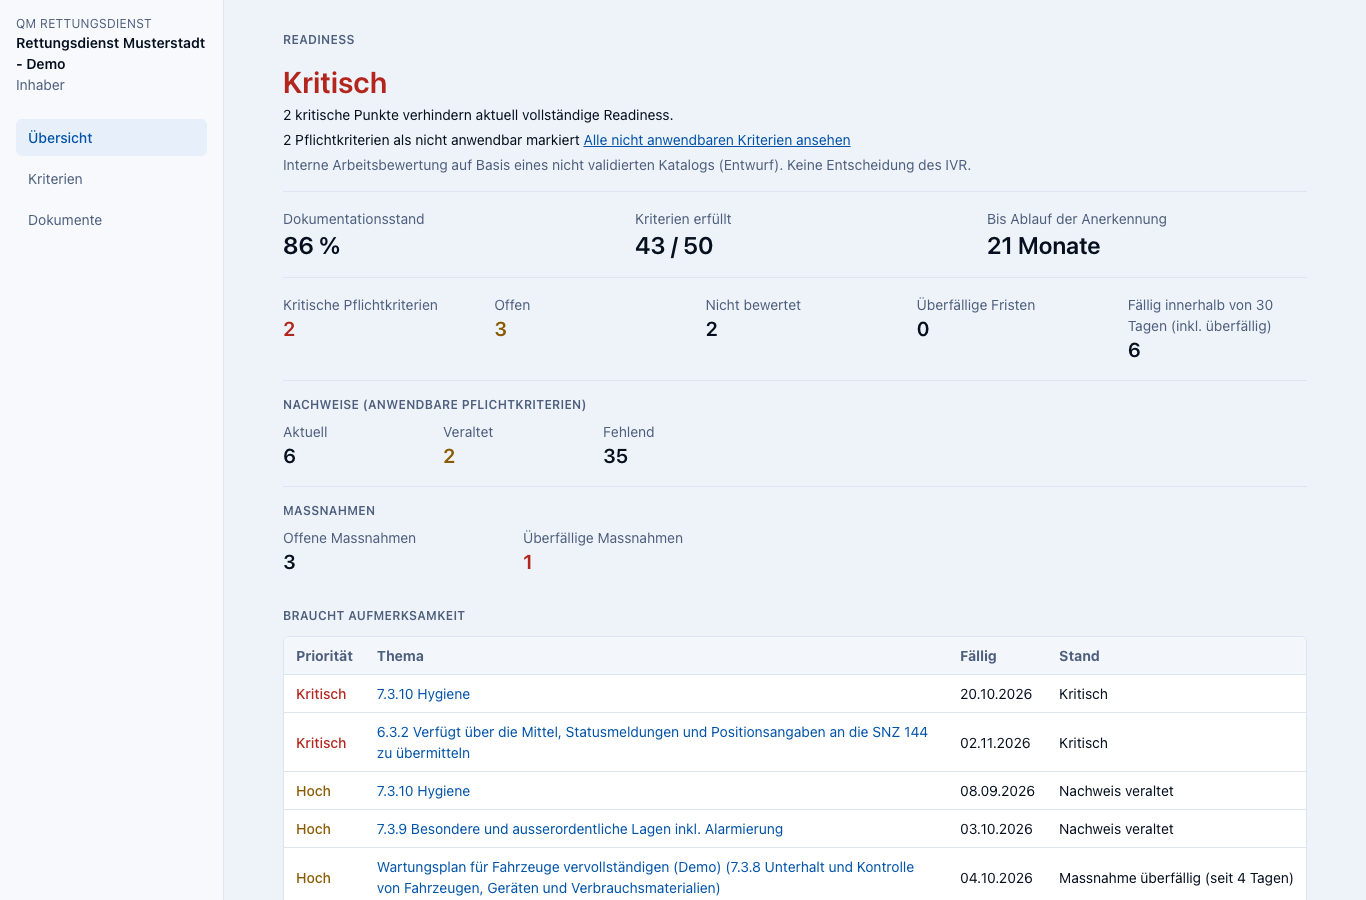
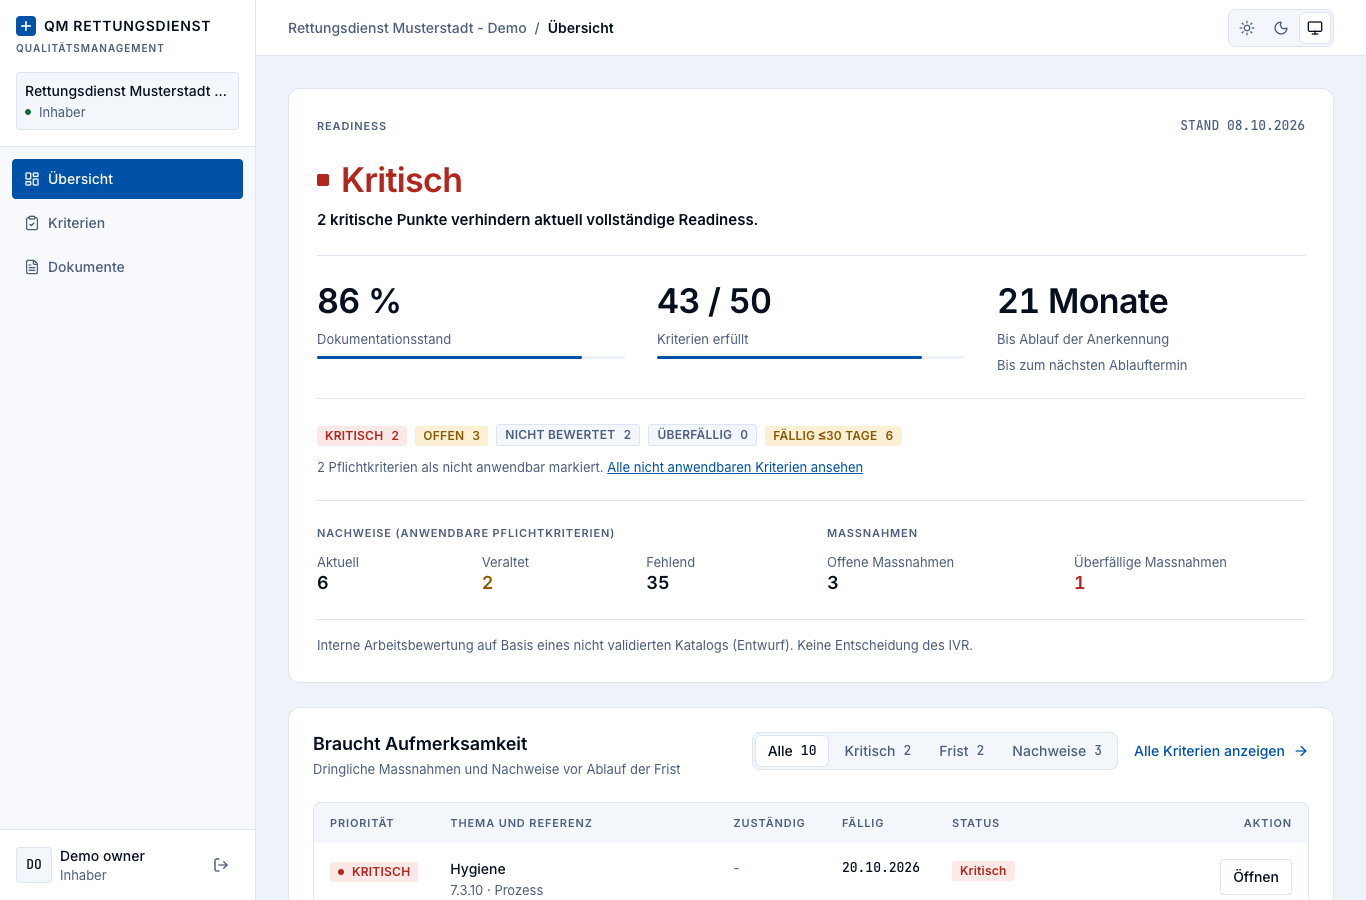
docs(qm): refresh the fallback screenshots for the new layout

diff --git a/tasks/todo.md b/tasks/todo.md
@@ -1,0 +1,11 @@
+- [x] Plan 4/5/6 night job complete; demo deployed (protected). Open: Henrik reviews morning report, remove duplicate empty Neon resource (iad1) in Vercel dashboard, reseed before demo.
+
+## Plan 7: Freeze, Rehearsal & Pitch Hardening (ab 2026-10-08)
+- [x] R51: echter 404 (Proxy-Check, auf Vercel verifiziert: 404/404/307)
+- [x] Zugangsprozess dokumentiert (qm/docs/demo/ACCESS.md)
+- [ ] Demo-Flow pro Rolle live durchspielen (Henrik), danach reseeden
+- [ ] Fallback-Screenshots neu aufnehmen (neues Layout)
+- [ ] UI-Copy glätten, Pitch-Narrativ mit Produkt abgleichen
+- [ ] Feature Freeze
+- Backlog nach Freeze: Stitch-Kriteriendetail (8/4-Layout), Massnahmen-Register, PDCA-Stufe B. Nicht jetzt.
+- Hygiene: leeres Neon-Resource iad1 im Vercel-Dashboard löschen; Production-Branch auf feat/qm-foundation stellen (optional)
